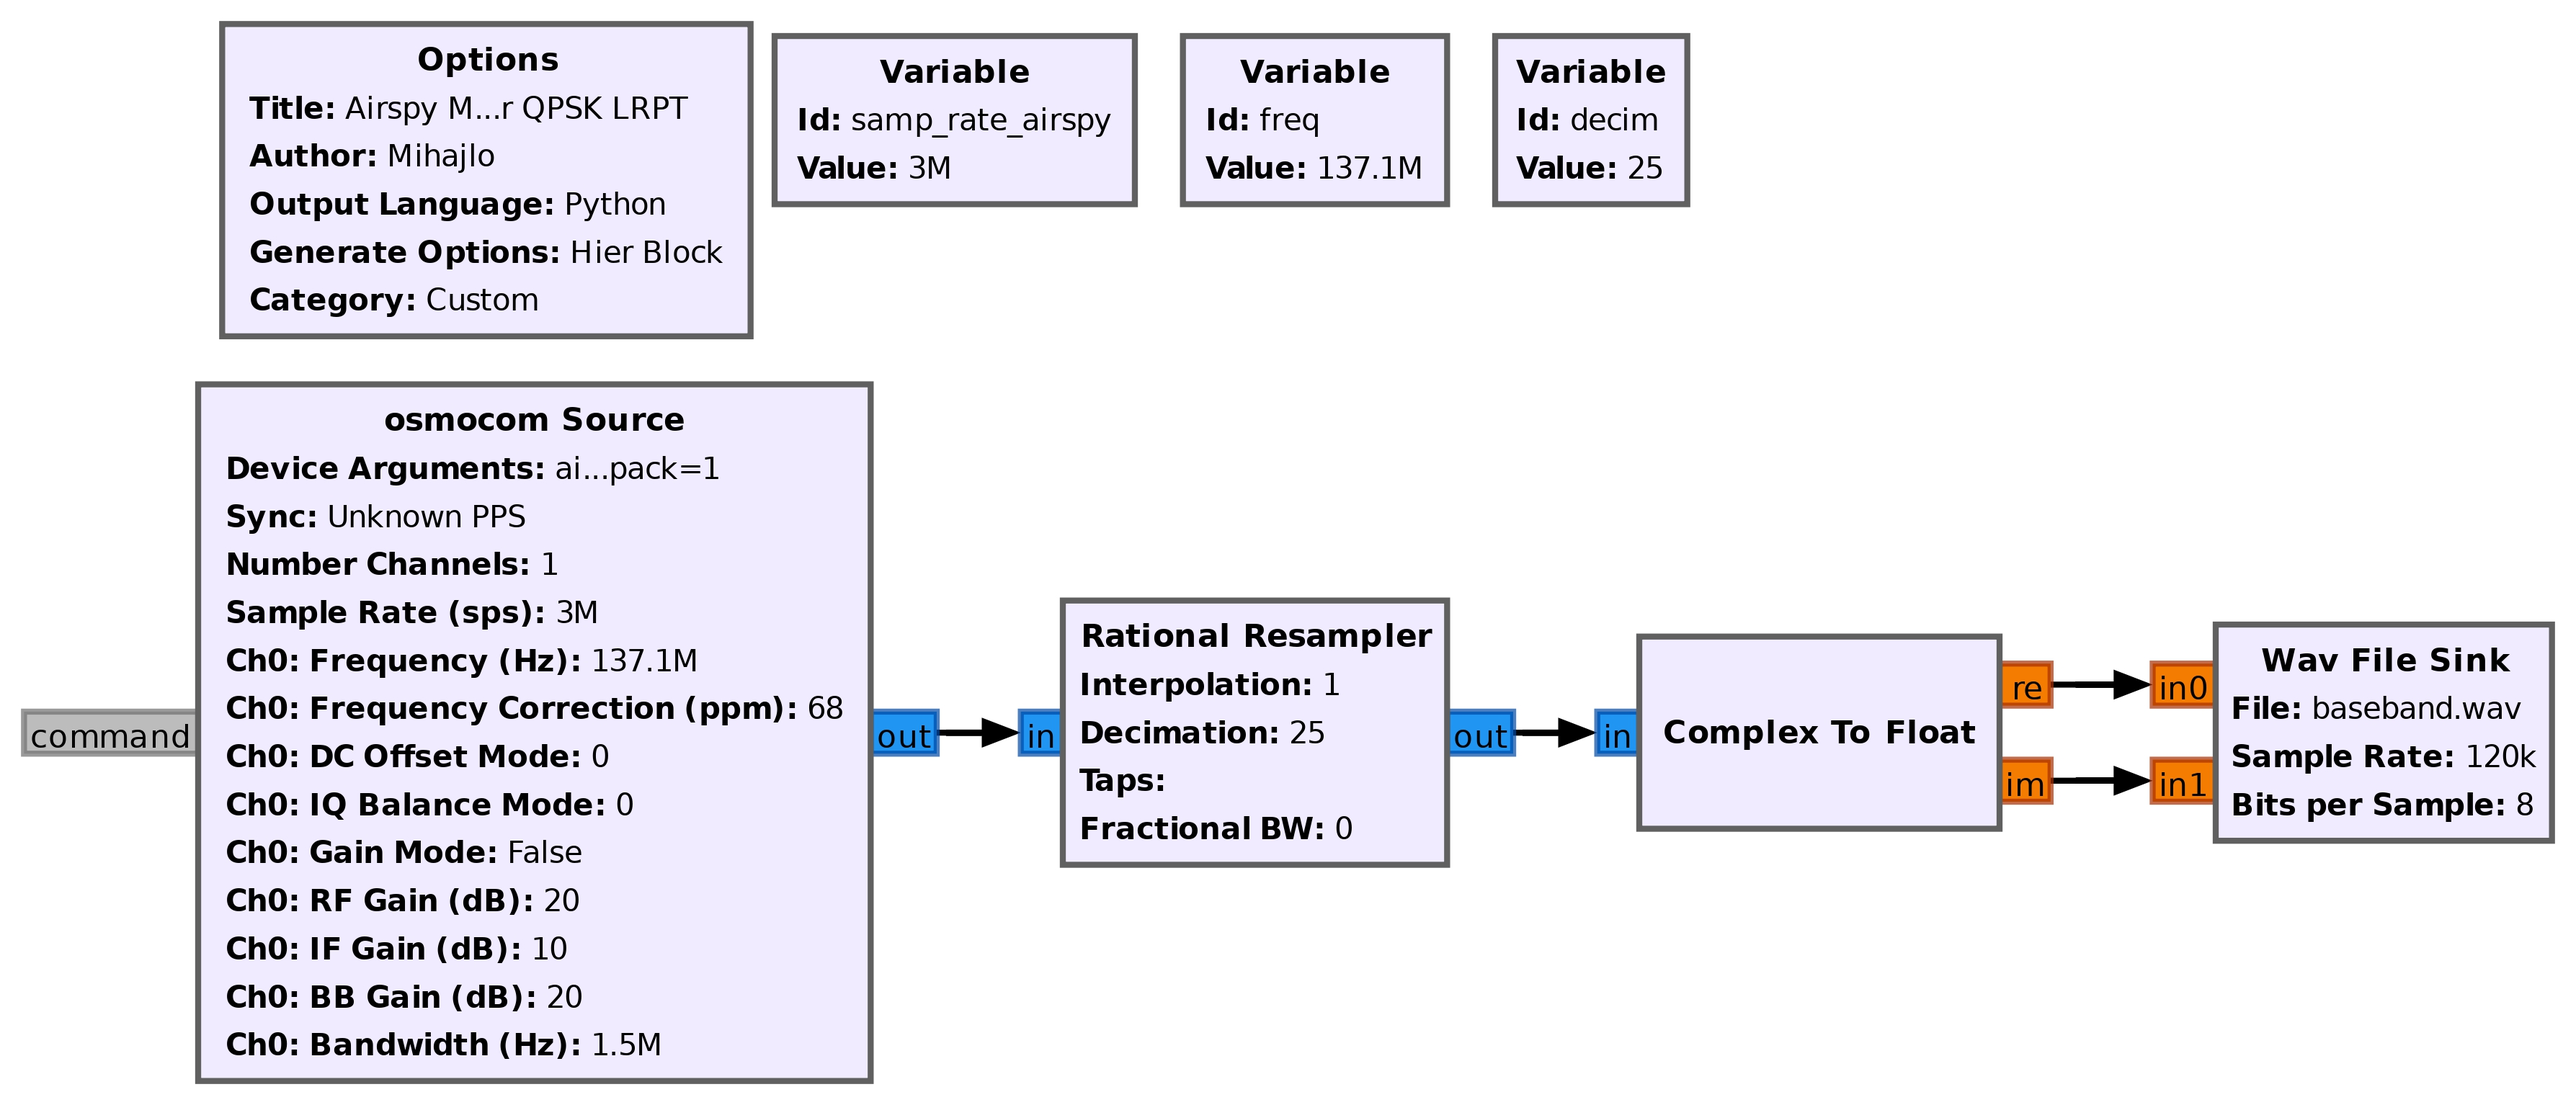
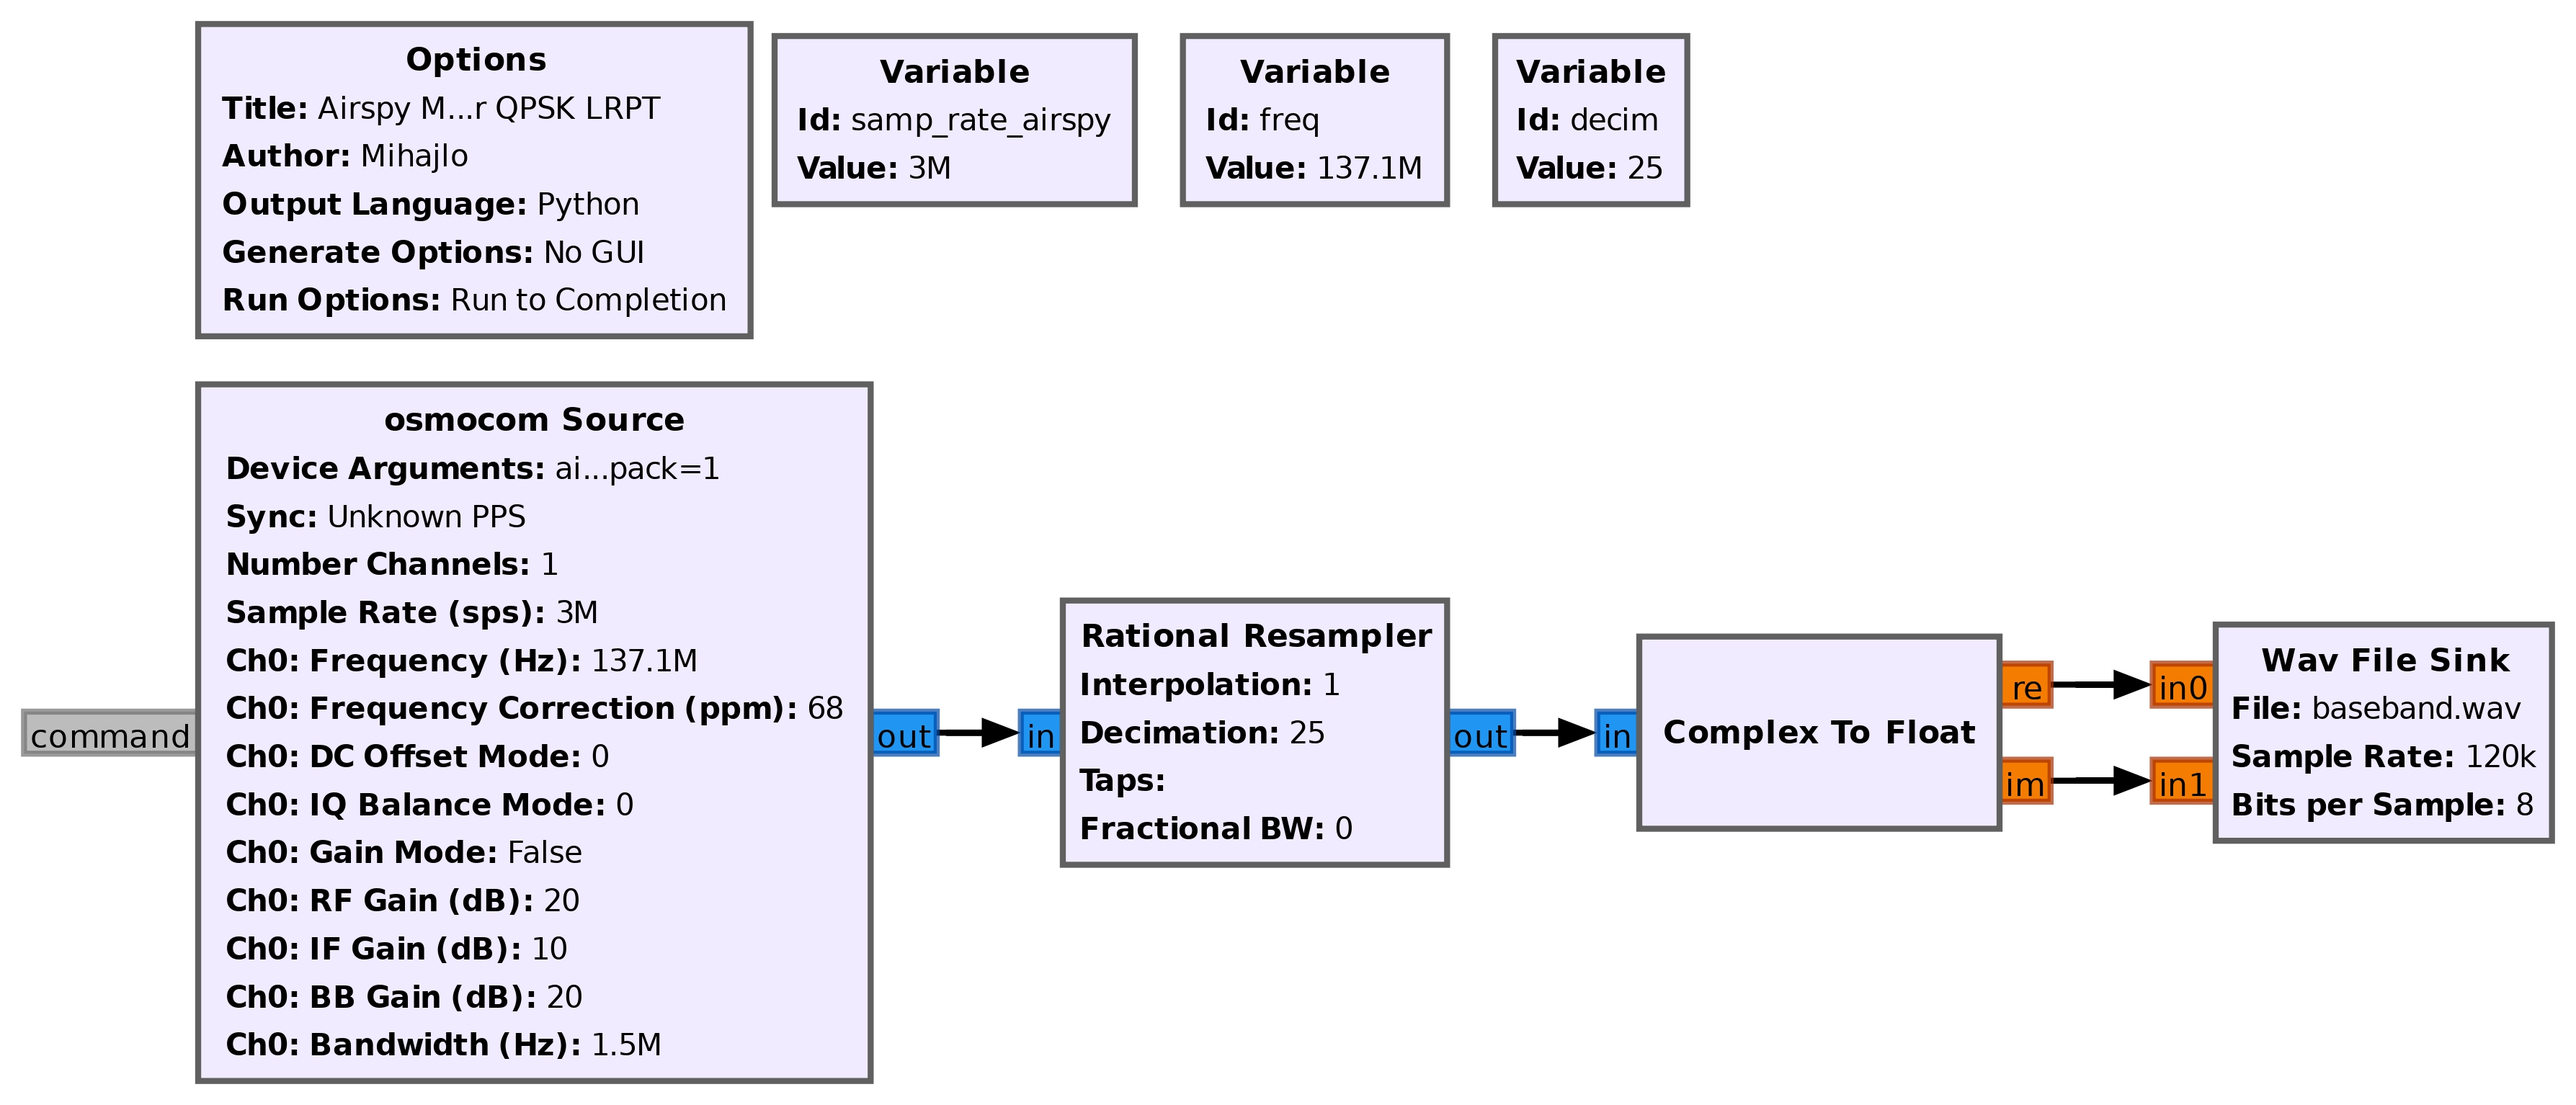
Fix NoGUI issue...

Changed region(s): [[0.0621, 0.0306, 0.2794, 0.3064]]

diff --git a/scripts/audio_processors/hackrf_m2_lrpt_rx.py b/scripts/audio_processors/hackrf_m2_lrpt_rx.py
@@ -1,3 +1,4 @@
+#!/usr/bin/env python3
 # -*- coding: utf-8 -*-
 
 #
@@ -6,25 +7,25 @@
 # GNU Radio Python Flow Graph
 # Title: Hackrf Meteor QPSK LRPT
 # Author: Mihajlo
-# GNU Radio version: 3.10.6.0
+# GNU Radio version: 3.8.2.0
 
 from gnuradio import blocks
 from gnuradio import filter
 from gnuradio.filter import firdes
 from gnuradio import gr
-from gnuradio.fft import window
 import sys
 import signal
+from argparse import ArgumentParser
+from gnuradio.eng_arg import eng_float, intx
+from gnuradio import eng_notation
 import osmosdr
 import time
 
-class hackrf_m2_lrpt_rx(gr.hier_block2):
+
+class hackrf_m2_lrpt_rx(gr.top_block):
+
     def __init__(self):
-        gr.hier_block2.__init__(
-            self, "Hackrf Meteor QPSK LRPT",
-                gr.io_signature(0, 0, 0),
-                gr.io_signature(0, 0, 0),
-        )
+        gr.top_block.__init__(self, "Hackrf Meteor QPSK LRPT")
 
         stream_name = sys.argv[1]
         gain = float(sys.argv[2])
@@ -46,12 +47,11 @@ class hackrf_m2_lrpt_rx(gr.hier_block2):
         ##################################################
         # Blocks
         ##################################################
-
         self.rational_resampler_xxx_0 = filter.rational_resampler_ccc(
                 interpolation=1,
                 decimation=decim,
                 taps=[],
-                fractional_bw=0)
+                fractional_bw=None)
         self.osmosdr_source_0 = osmosdr.source(args="numchan=" + str(1) + " " + "hackrf=0,bias=" + bias_t)
         self.osmosdr_source_0.set_time_unknown_pps(osmosdr.time_spec_t())
         self.osmosdr_source_0.set_sample_rate(samp_rate_hackrf)
@@ -65,22 +65,14 @@ class hackrf_m2_lrpt_rx(gr.hier_block2):
         self.osmosdr_source_0.set_bb_gain(20, 0)
         self.osmosdr_source_0.set_antenna('', 0)
         self.osmosdr_source_0.set_bandwidth(1500000, 0)
-        self.blocks_wavfile_sink_0 = blocks.wavfile_sink(
-            output_baseband,
-            2,
-            (int(samp_rate_hackrf/decim)),
-            blocks.FORMAT_WAV,
-            blocks.FORMAT_PCM_U8,
-            False
-            )
+        self.blocks_wavfile_sink_0 = blocks.wavfile_sink(output_baseband, 2, int(samp_rate_hackrf/decim), 8)
         self.blocks_complex_to_float_0 = blocks.complex_to_float(1)
-
 
         ##################################################
         # Connections
         ##################################################
-        self.connect((self.blocks_complex_to_float_0, 1), (self.blocks_wavfile_sink_0, 1))
         self.connect((self.blocks_complex_to_float_0, 0), (self.blocks_wavfile_sink_0, 0))
+        self.connect((self.blocks_complex_to_float_0, 1), (self.blocks_wavfile_sink_0, 1))
         self.connect((self.osmosdr_source_0, 0), (self.rational_resampler_xxx_0, 0))
         self.connect((self.rational_resampler_xxx_0, 0), (self.blocks_complex_to_float_0, 0))
 
@@ -105,3 +97,22 @@ class hackrf_m2_lrpt_rx(gr.hier_block2):
     def set_decim(self, decim):
         self.decim = decim
 
+def main(top_block_cls=hackrf_m2_lrpt_rx, options=None):
+    tb = top_block_cls()
+
+    def sig_handler(sig=None, frame=None):
+        tb.stop()
+        tb.wait()
+
+        sys.exit(0)
+
+    signal.signal(signal.SIGINT, sig_handler)
+    signal.signal(signal.SIGTERM, sig_handler)
+
+    tb.start()
+
+    tb.wait()
+
+
+if __name__ == '__main__':
+    main()

diff --git a/scripts/audio_processors/airspy_mini_m2_lrpt_rx.py b/scripts/audio_processors/airspy_mini_m2_lrpt_rx.py
@@ -1,3 +1,4 @@
+#!/usr/bin/env python3
 # -*- coding: utf-8 -*-
 
 #
@@ -6,25 +7,25 @@
 # GNU Radio Python Flow Graph
 # Title: Airspy Mini Meteor QPSK LRPT
 # Author: Mihajlo
-# GNU Radio version: 3.10.6.0
+# GNU Radio version: 3.8.2.0
 
 from gnuradio import blocks
 from gnuradio import filter
 from gnuradio.filter import firdes
 from gnuradio import gr
-from gnuradio.fft import window
 import sys
 import signal
+from argparse import ArgumentParser
+from gnuradio.eng_arg import eng_float, intx
+from gnuradio import eng_notation
 import osmosdr
 import time
 
-class airspy_mini_m2_lrpt_rx(gr.hier_block2):
+
+class airspy_mini_m2_lrpt_rx(gr.top_block):
+
     def __init__(self):
-        gr.hier_block2.__init__(
-            self, "Airspy Mini Meteor QPSK LRPT",
-                gr.io_signature(0, 0, 0),
-                gr.io_signature(0, 0, 0),
-        )
+        gr.top_block.__init__(self, "Airspy Mini Meteor QPSK LRPT")
 
         stream_name = sys.argv[1]
         gain = float(sys.argv[2])
@@ -55,7 +56,7 @@ class airspy_mini_m2_lrpt_rx(gr.hier_block2):
                 interpolation=1,
                 decimation=decim,
                 taps=[],
-                fractional_bw=0)
+                fractional_bw=None)
         self.osmosdr_source_0 = osmosdr.source(args="numchan=" + str(1) + " " + "airspy=0,pack=1,bias=" + bias_t)
         self.osmosdr_source_0.set_time_unknown_pps(osmosdr.time_spec_t())
         self.osmosdr_source_0.set_sample_rate(samp_rate_airspy)
@@ -69,22 +70,16 @@ class airspy_mini_m2_lrpt_rx(gr.hier_block2):
         self.osmosdr_source_0.set_bb_gain(20, 0)
         self.osmosdr_source_0.set_antenna('', 0)
         self.osmosdr_source_0.set_bandwidth(1500000, 0)
-        self.blocks_wavfile_sink_0 = blocks.wavfile_sink(
-            output_baseband,
-            2,
-            (int(samp_rate_airspy/decim)),
-            blocks.FORMAT_WAV,
-            blocks.FORMAT_PCM_U8,
-            False
-            )
+        self.blocks_wavfile_sink_0 = blocks.wavfile_sink(output_baseband, 2, int(samp_rate_airspy/decim), 8)
         self.blocks_complex_to_float_0 = blocks.complex_to_float(1)
+
 
 
         ##################################################
         # Connections
         ##################################################
-        self.connect((self.blocks_complex_to_float_0, 0), (self.blocks_wavfile_sink_0, 0))
         self.connect((self.blocks_complex_to_float_0, 1), (self.blocks_wavfile_sink_0, 1))
+        self.connect((self.blocks_complex_to_float_0, 0), (self.blocks_wavfile_sink_0, 0))
         self.connect((self.osmosdr_source_0, 0), (self.rational_resampler_xxx_0, 0))
         self.connect((self.rational_resampler_xxx_0, 0), (self.blocks_complex_to_float_0, 0))
 
@@ -109,3 +104,22 @@ class airspy_mini_m2_lrpt_rx(gr.hier_block2):
     def set_decim(self, decim):
         self.decim = decim
 
+def main(top_block_cls=airspy_mini_m2_lrpt_rx, options=None):
+    tb = top_block_cls()
+
+    def sig_handler(sig=None, frame=None):
+        tb.stop()
+        tb.wait()
+
+        sys.exit(0)
+
+    signal.signal(signal.SIGINT, sig_handler)
+    signal.signal(signal.SIGTERM, sig_handler)
+
+    tb.start()
+
+    tb.wait()
+
+
+if __name__ == '__main__':
+    main()

diff --git a/scripts/audio_processors/airspy_r2_m2_lrpt_rx.py b/scripts/audio_processors/airspy_r2_m2_lrpt_rx.py
@@ -1,3 +1,4 @@
+#!/usr/bin/env python3
 # -*- coding: utf-8 -*-
 
 #
@@ -6,25 +7,25 @@
 # GNU Radio Python Flow Graph
 # Title: Airspy R2 Meteor QPSK LRPT
 # Author: Mihajlo
-# GNU Radio version: 3.10.6.0
+# GNU Radio version: 3.8.2.0
 
 from gnuradio import blocks
 from gnuradio import filter
 from gnuradio.filter import firdes
 from gnuradio import gr
-from gnuradio.fft import window
 import sys
 import signal
+from argparse import ArgumentParser
+from gnuradio.eng_arg import eng_float, intx
+from gnuradio import eng_notation
 import osmosdr
 import time
 
-class airspy_r2_m2_lrpt_rx(gr.hier_block2):
+
+class airspy_r2_m2_lrpt_rx(gr.top_block):
+
     def __init__(self):
-        gr.hier_block2.__init__(
-            self, "Airspy R2 Meteor QPSK LRPT",
-                gr.io_signature(0, 0, 0),
-                gr.io_signature(0, 0, 0),
-        )
+        gr.top_block.__init__(self, "Airspy R2 Meteor QPSK LRPT")
 
         stream_name = sys.argv[1]
         gain = float(sys.argv[2])
@@ -55,7 +56,7 @@ class airspy_r2_m2_lrpt_rx(gr.hier_block2):
                 interpolation=1,
                 decimation=decim,
                 taps=[],
-                fractional_bw=0)
+                fractional_bw=None)
         self.osmosdr_source_0 = osmosdr.source(args="numchan=" + str(1) + " " + "airspy=0,pack=1,bias=" + bias_t)
         self.osmosdr_source_0.set_time_unknown_pps(osmosdr.time_spec_t())
         self.osmosdr_source_0.set_sample_rate(samp_rate_airspy)
@@ -69,22 +70,14 @@ class airspy_r2_m2_lrpt_rx(gr.hier_block2):
         self.osmosdr_source_0.set_bb_gain(0, 0)
         self.osmosdr_source_0.set_antenna('', 0)
         self.osmosdr_source_0.set_bandwidth(1500000, 0)
-        self.blocks_wavfile_sink_0 = blocks.wavfile_sink(
-            output_baseband,
-            2,
-            (int(samp_rate_airspy/decim)),
-            blocks.FORMAT_WAV,
-            blocks.FORMAT_PCM_U8,
-            False
-            )
+        self.blocks_wavfile_sink_0 = blocks.wavfile_sink(output_baseband, 2, int(samp_rate_airspy/decim), 8)
         self.blocks_complex_to_float_0 = blocks.complex_to_float(1)
-
 
         ##################################################
         # Connections
         ##################################################
-        self.connect((self.blocks_complex_to_float_0, 0), (self.blocks_wavfile_sink_0, 0))
         self.connect((self.blocks_complex_to_float_0, 1), (self.blocks_wavfile_sink_0, 1))
+        self.connect((self.blocks_complex_to_float_0, 0), (self.blocks_wavfile_sink_0, 0))
         self.connect((self.osmosdr_source_0, 0), (self.rational_resampler_xxx_0, 0))
         self.connect((self.rational_resampler_xxx_0, 0), (self.blocks_complex_to_float_0, 0))
 
@@ -109,3 +102,22 @@ class airspy_r2_m2_lrpt_rx(gr.hier_block2):
     def set_decim(self, decim):
         self.decim = decim
 
+def main(top_block_cls=airspy_r2_m2_lrpt_rx, options=None):
+    tb = top_block_cls()
+
+    def sig_handler(sig=None, frame=None):
+        tb.stop()
+        tb.wait()
+
+        sys.exit(0)
+
+    signal.signal(signal.SIGINT, sig_handler)
+    signal.signal(signal.SIGTERM, sig_handler)
+
+    tb.start()
+
+    tb.wait()
+
+
+if __name__ == '__main__':
+    main()
